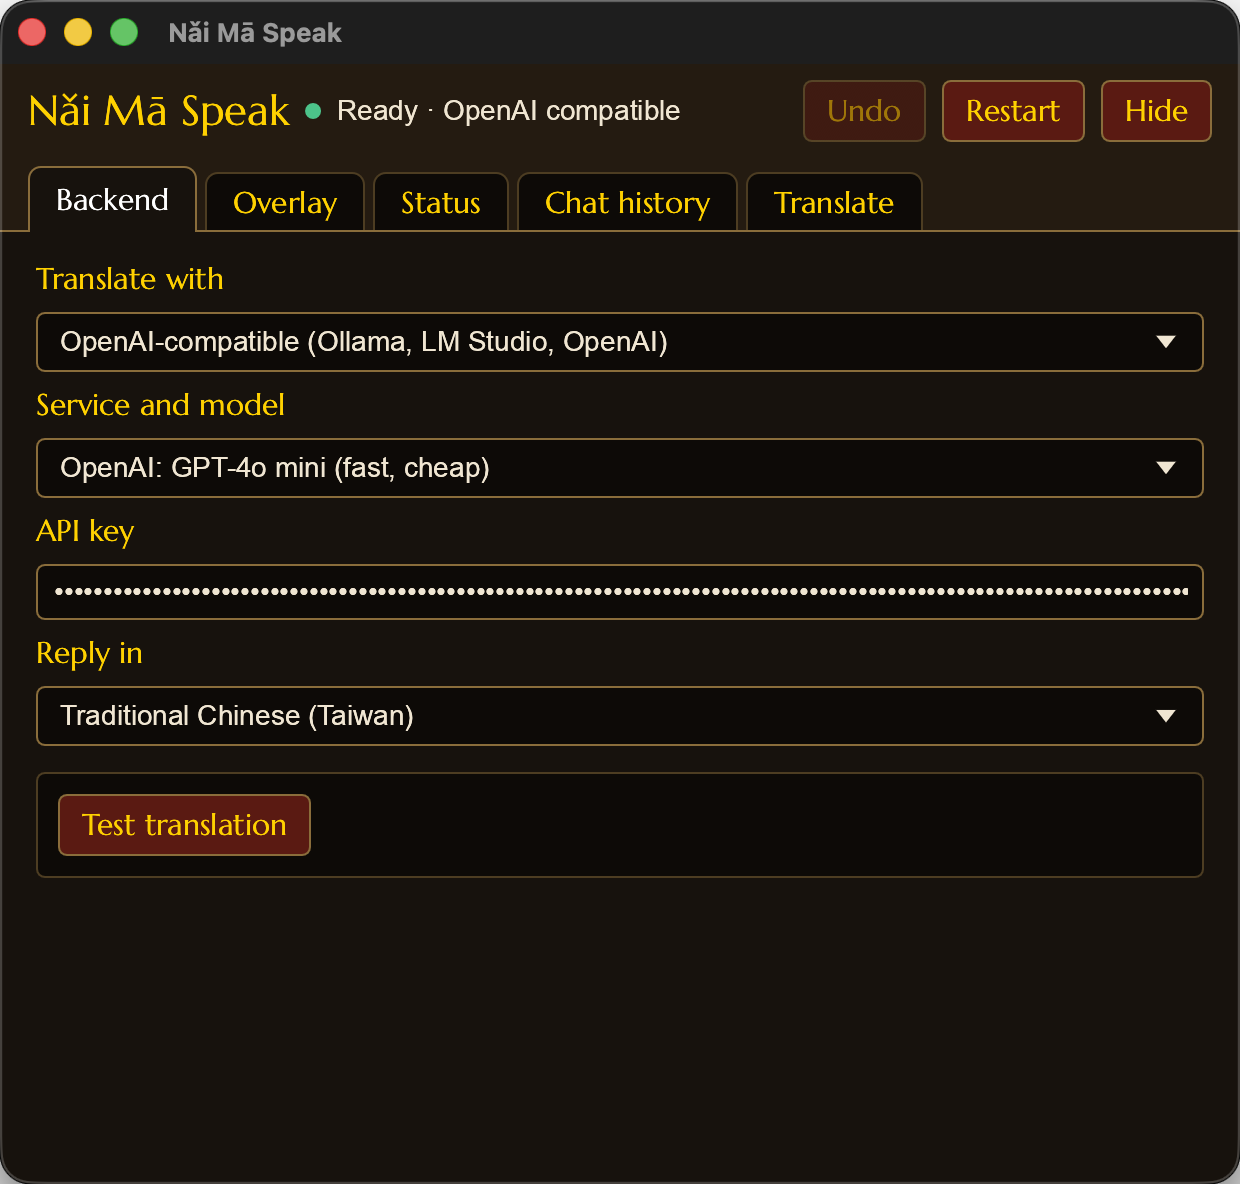
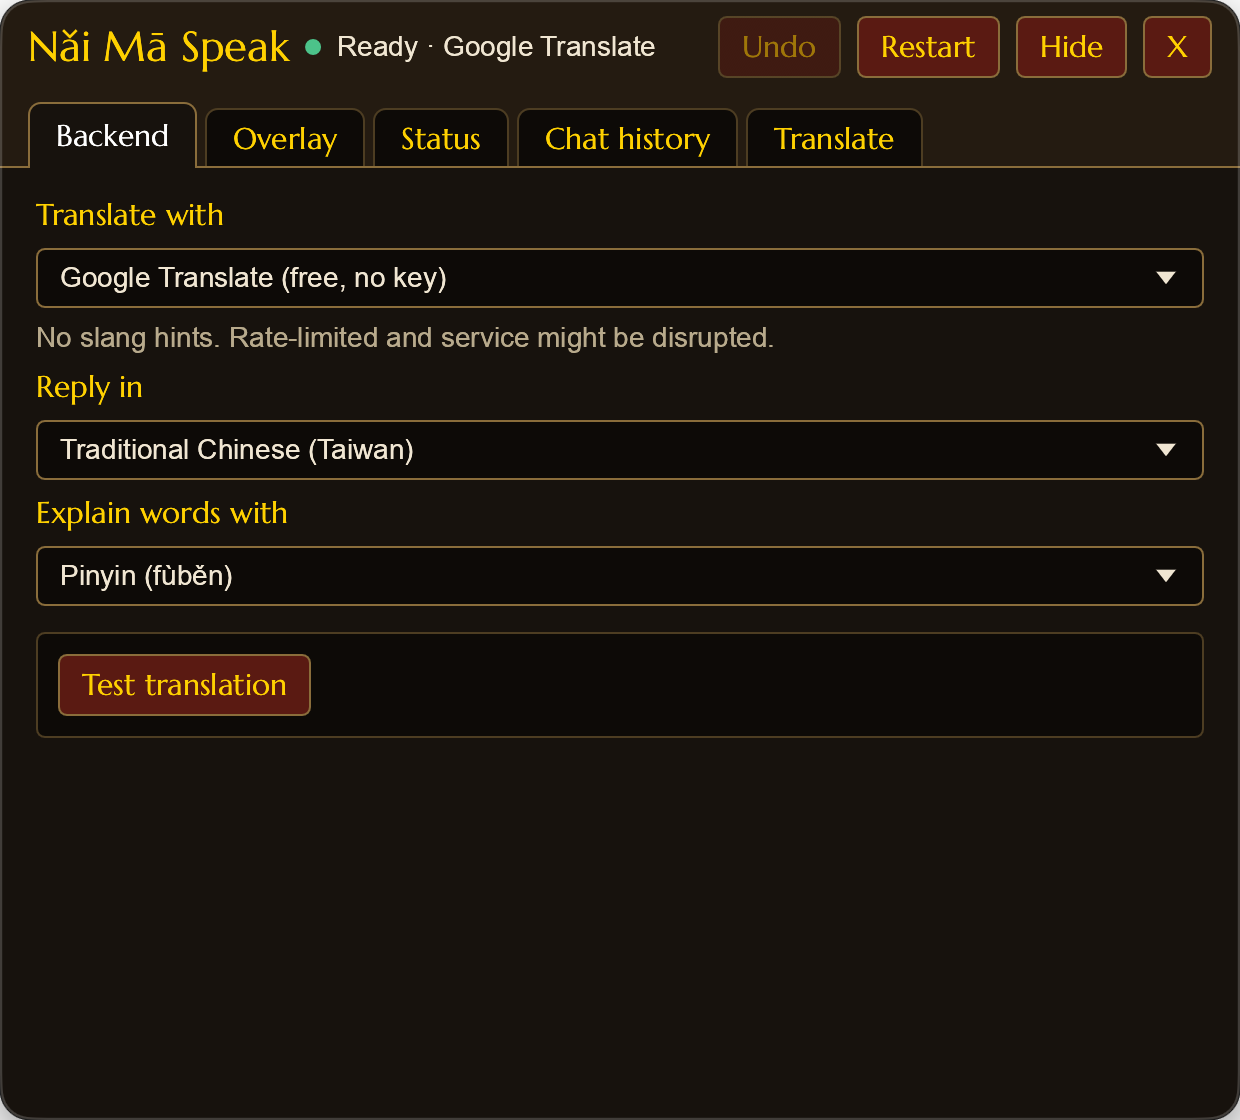
A new picture of the companion; pictures taken on the sharpest display

Changed region(s): [[0.0, 0.0, 0.9806, 0.75], [0.9806, 0.9688, 1.0, 1.0], [0.0, 0.9688, 0.0306, 1.0]]

diff --git a/companion/src/app.rs b/companion/src/app.rs
@@ -460,6 +460,14 @@ impl TranslateApp {
         if self.shot.is_none() {
             // Above other windows, or a covered window is not drawn and pictures go stale.
             ctx.send_viewport_cmd_to(ViewportId::ROOT, ViewportCommand::WindowLevel(egui::WindowLevel::AlwaysOnTop));
+            // On the sharpest display there is, for pictures worth showing.
+            let sharpest = xcap::Monitor::all().unwrap_or_default().into_iter().max_by(|a, b| {
+                a.scale_factor().unwrap_or(1.0).total_cmp(&b.scale_factor().unwrap_or(1.0))
+            });
+            if let Some((Ok(x), Ok(y))) = sharpest.map(|monitor| (monitor.x(), monitor.y())) {
+                let corner = egui::pos2(x as f32 + 120.0, y as f32 + 120.0);
+                ctx.send_viewport_cmd_to(ViewportId::ROOT, ViewportCommand::OuterPosition(corner));
+            }
         }
         let (step, since) = self.shot.get_or_insert((0, Instant::now()));
         if since.elapsed() < Duration::from_millis(900) {
